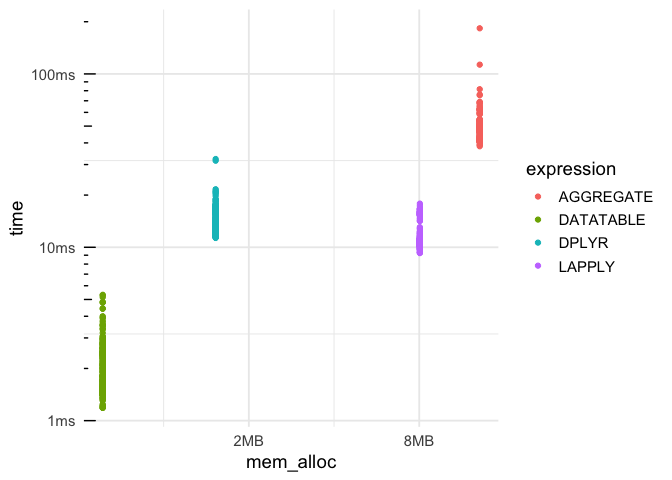
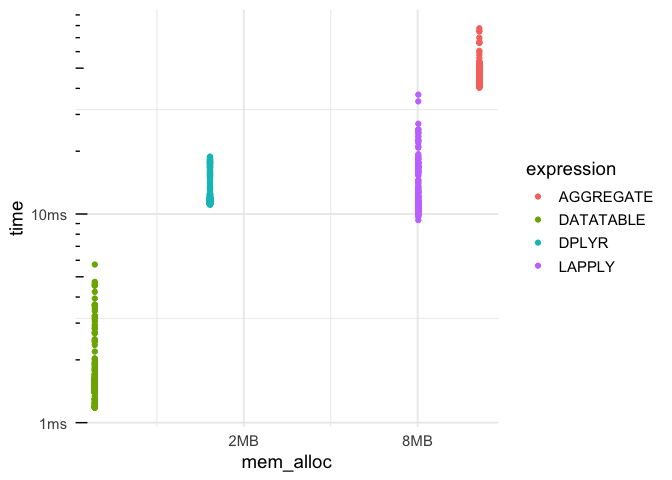
add the final animated t-SNE GIF

diff --git a/maths/R/README.md b/maths/R/README.md
@@ -285,10 +285,10 @@ m
     ## # A tibble: 4 x 10
     ##   expression      min     mean   median      max `itr/sec` mem_alloc  n_gc
     ##   <chr>      <bch:tm> <bch:tm> <bch:tm> <bch:tm>     <dbl> <bch:byt> <dbl>
-    ## 1 LAPPLY       9.26ms  11.46ms  10.61ms  17.86ms      87.3    8.04MB    67
-    ## 2 AGGREGATE   38.26ms  51.02ms  48.46ms 183.33ms      19.6   13.09MB   139
-    ## 3 DPLYR       11.32ms  13.95ms  13.08ms  32.29ms      71.7    1.53MB    12
-    ## 4 DATATABLE    1.18ms   1.99ms   1.68ms   5.32ms     502.   623.85KB     6
+    ## 1 LAPPLY       9.35ms  12.93ms  10.88ms  37.34ms      77.4    8.04MB    67
+    ## 2 AGGREGATE   40.25ms  48.42ms  48.02ms  77.64ms      20.7   13.09MB   139
+    ## 3 DPLYR        11.1ms  12.63ms  11.62ms  18.83ms      79.1    1.53MB    12
+    ## 4 DATATABLE    1.18ms   1.69ms   1.49ms   5.73ms     591.   623.85KB     6
     ## # ... with 2 more variables: n_itr <int>, total_time <bch:tm>
 
   - makes comparison easier to read using **relative** values. 1 for the
@@ -303,10 +303,10 @@ summary(m, relative = TRUE)
     ## # A tibble: 4 x 10
     ##   expression   min  mean median   max `itr/sec` mem_alloc  n_gc n_itr
     ##   <chr>      <dbl> <dbl>  <dbl> <dbl>     <dbl>     <dbl> <dbl> <dbl>
-    ## 1 LAPPLY      7.82  5.75   6.33  3.36      4.45     13.2   11.2  1.45
-    ## 2 AGGREGATE  32.3  25.6   28.9  34.5       1        21.5   23.2  1   
-    ## 3 DPLYR       9.56  7.01   7.80  6.07      3.66      2.51   2    1.79
-    ## 4 DATATABLE   1     1      1     1        25.6       1      1    1.83
+    ## 1 LAPPLY      7.94  7.64   7.31  6.52      3.75     13.2   11.2  1.45
+    ## 2 AGGREGATE  34.2  28.6   32.3  13.6       1        21.5   23.2  1   
+    ## 3 DPLYR       9.43  7.46   7.81  3.29      3.83      2.51   2    1.79
+    ## 4 DATATABLE   1     1      1     1        28.6       1      1    1.83
     ## # ... with 1 more variable: total_time <dbl>
 
 ### Plotting the benchmark
@@ -447,7 +447,7 @@ nothingness <- future_map(c(2, 2, 2), ~Sys.sleep(.x), .progress = TRUE)
 tictoc::toc()
 ```
 
-    ## 6.186 sec elapsed
+    ## 6.293 sec elapsed
 
   - second in parallel
 
@@ -460,15 +460,15 @@ nothingness <- future_map(c(2, 2, 2), ~Sys.sleep(.x), .progress = TRUE)
 ```
 
     ## 
-     Progress:                                                                                                                                                                 100%
-     Progress:                                                                                                                                                                 100%
-     Progress: ─────────────────────────────────────────────────────────────────────────────────────────────────────────────────────────────────────────────────────────────── 100%
+     Progress:                                                                                                  100%
+     Progress:                                                                                                  100%
+     Progress: ──────────────────────────────────────────────────────────────────────────────────────────────── 100%
 
 ``` r
 tictoc::toc()
 ```
 
-    ## 2.101 sec elapsed
+    ## 2.102 sec elapsed
 
 ### t-SNE example
 
@@ -590,6 +590,8 @@ computationally intensive tasks such as t-SNE
 just for the fun of it, using the [experimental
 gganimate](https://github.com/thomasp85/gganimate), we can visualise how
 the t-SNE evolves with increased perplexities
+
+![](figures/tsne_110_component.gif)
 
 ### Useful links
 
